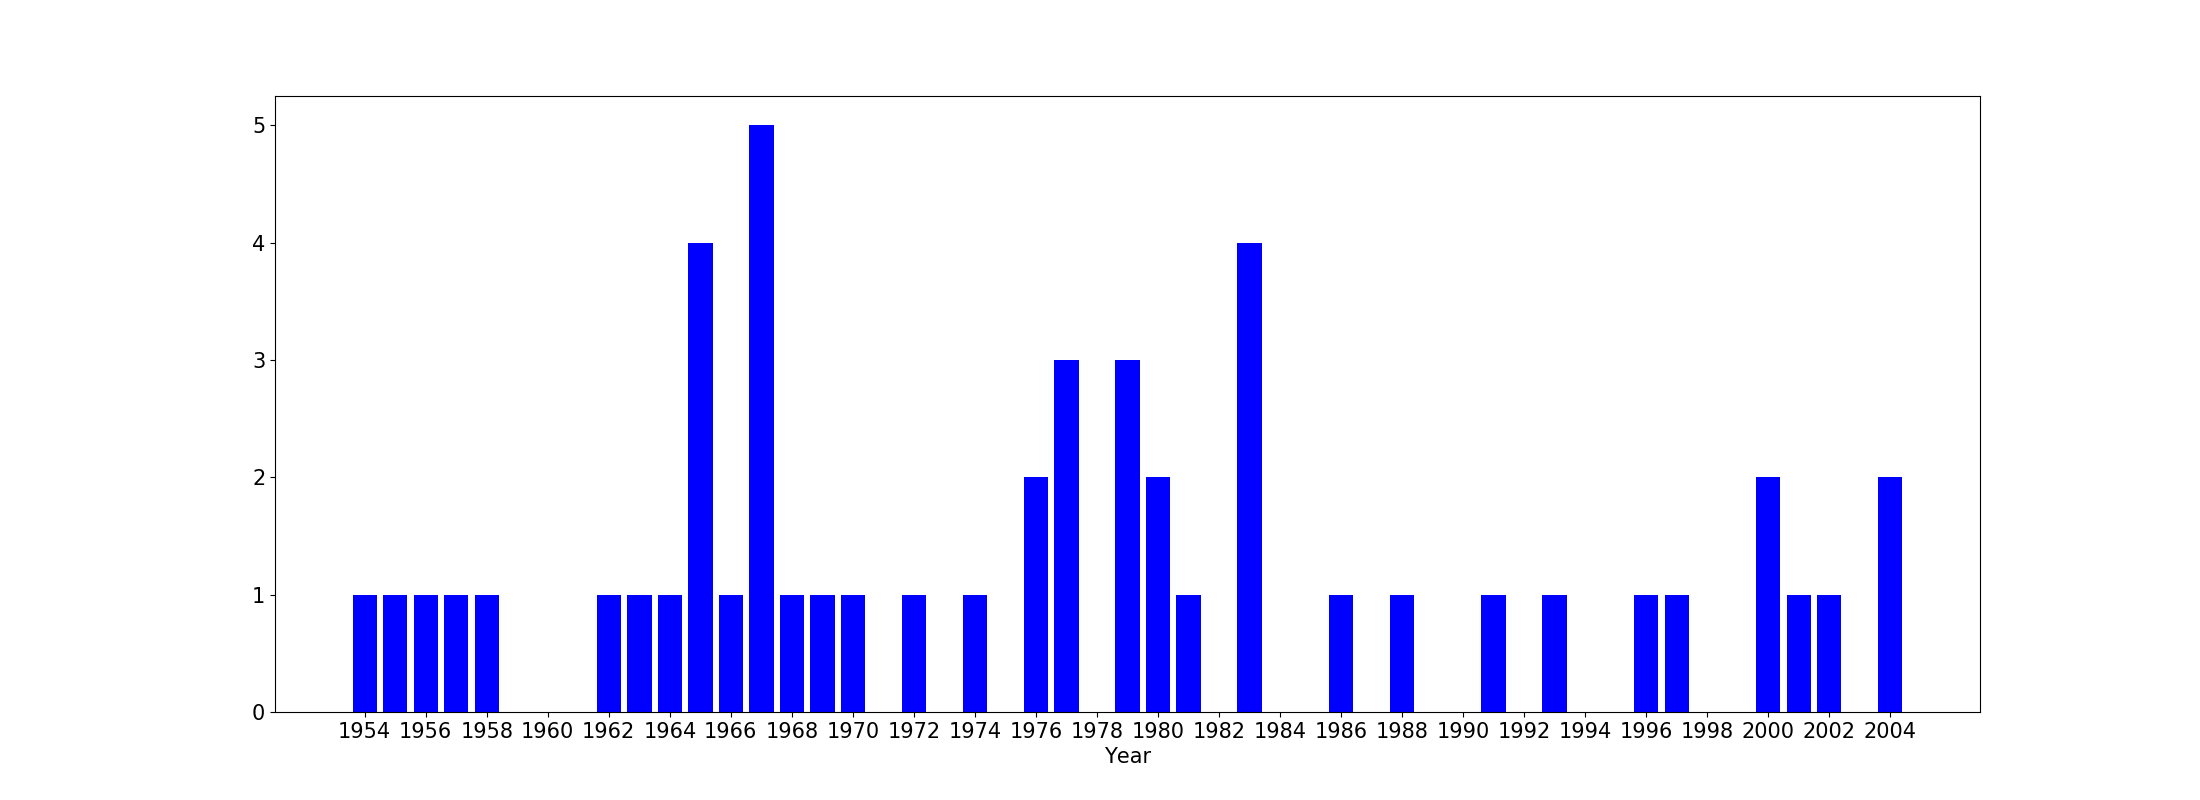
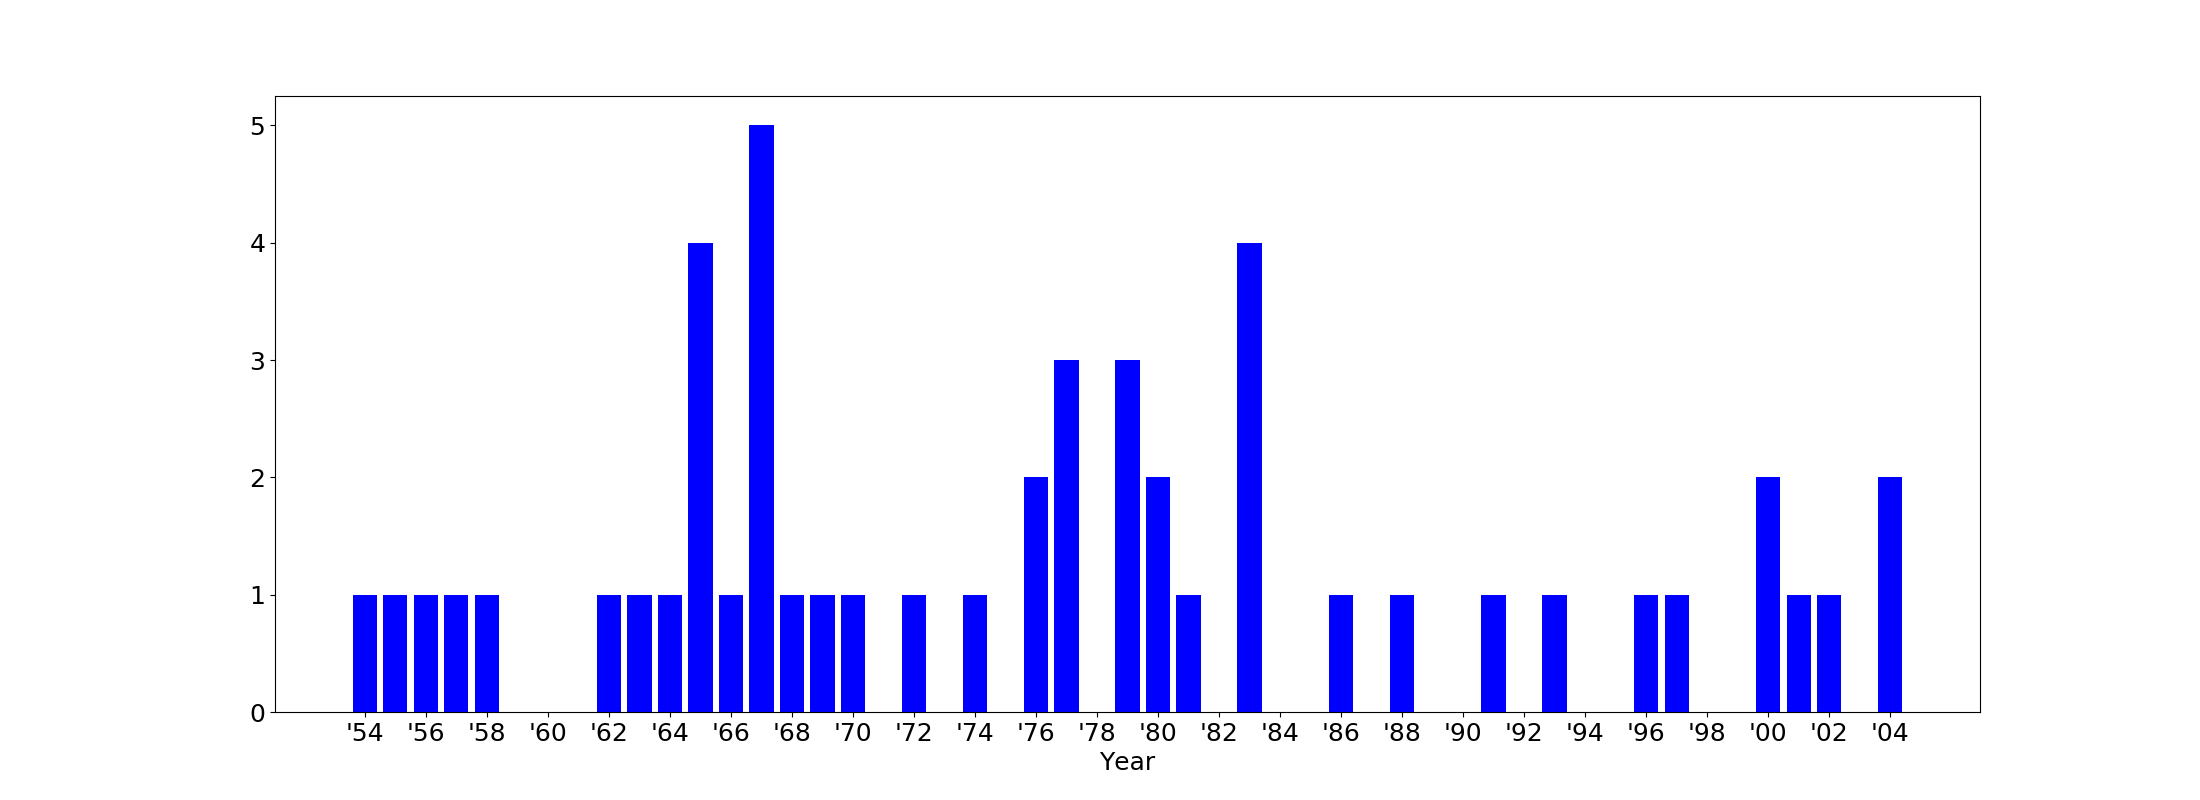
Hr before plots

Changed region(s): [[0.1545, 0.9062, 0.8655, 0.9688]]

diff --git a/index.html b/index.html
@@ -425,16 +425,16 @@ or as a part of an album. Image shows the cover of the single or the label if no
 
 <tr><td><b>Producer&ensp;</b></td><td><b>Eva Jantschitsch</b></td></tr>
 <tr><td><b>Length&ensp;</b></td><td><b>4:12</b></td></tr>
-<tr><td><b>Label&ensp;</b></td><td><b>Mosz</b></td></tr></table></div><h2><a href="#origin" name="origin">#</a>Origins</h2>
-<img src="data/img/origin.png" alt="Origins" width="920"/>
-<h2><a href="#years" name="years">#</a>Release Dates — Year</h2>
-<img src="data/img/years.png" alt="Release Dates — Year" width="920"/>
-<h2><a href="#months" name="months">#</a>Release Dates — Month</h2>
-<img src="data/img/months.png" alt="Release Dates — Month" width="920"/>
-<h2><a href="#key" name="key">#</a>Keys</h2>
-<img src="data/img/key.png" alt="Keys" width="920"/>
-<h2><a href="#bpm" name="bpm">#</a>Tempos</h2>
-<img src="data/img/bpm.png" alt="Tempos" width="920"/>
+<tr><td><b>Label&ensp;</b></td><td><b>Mosz</b></td></tr></table></div><br><br><br><br><hr><h2><a href="#origin" name="origin">#</a>Origin</h2>
+<img src="data/img/origin.png" alt="Origin" width="920"/>
+<h2><a href="#years" name="years">#</a>Release Date — Year</h2>
+<img src="data/img/years.png" alt="Release Date — Year" width="920"/>
+<h2><a href="#months" name="months">#</a>Release Date — Month</h2>
+<img src="data/img/months.png" alt="Release Date — Month" width="920"/>
+<h2><a href="#key" name="key">#</a>Key</h2>
+<img src="data/img/key.png" alt="Key" width="920"/>
+<h2><a href="#bpm" name="bpm">#</a>Tempo</h2>
+<img src="data/img/bpm.png" alt="Tempo" width="920"/>
 
 
 <footer>

diff --git a/data/plot.py b/data/plot.py
@@ -44,7 +44,8 @@ def main():
     list_of_songs = get_file_contents("../list_of_songs")
     list_of_songs = get_list_of_songs(list_of_songs)
     songs = {k: v for k, v in songs.items() if k in list_of_songs} 
-    generate_plot(songs, 'released', get_year, 'years', ticks_filter=every_even)
+    generate_plot(songs, 'released', get_year, 'years', get_year_xlabel, 
+        ticks_filter=every_even, font_size_in=18)
     generate_plot(songs, 'released', get_month, 'months')
     generate_plot(songs, 'length', get_minutes, 'minutes')
     generate_plot(songs, 'bpm', get_bpm, 'bpm', get_bpm_xlabel, font_size_in=14)
@@ -68,6 +69,10 @@ def generate_plot(songs, key, parser, xlabel, label_parser=None,
                                  label_parser=label_parser,
                                  font_size_in=font_size_in)
 
+
+def get_year_xlabel(value):
+    value = str(value)[-2:]
+    return f"'{value}"
 
 def get_bpm(value):
     bpm = int(value)
@@ -152,9 +157,6 @@ def generate_release_dates_chart(listOfYears, filename=None, ticks_filter=None,
         label_parser=None, font_size_in=None):
     font_size = 22
     width = 22
-    if filename == 'years':
-        font_size = 15
-        width = 22
     if font_size_in:
         font_size = font_size_in
     set_plt_size(plt, width=width, height=8, font_size=font_size)
@@ -169,7 +171,6 @@ def generate_release_dates_chart(listOfYears, filename=None, ticks_filter=None,
         x_ticks = ticks_filter(x_ticks)
     
     if filename == 'months':
-        # plt.set_xticklabels(calendar.month_abbr, rotation='vertical', fontsize=18)
         plt.xticks(x_ticks, calendar.month_abbr)
     elif label_parser:
         plt.xticks(x_ticks, [label_parser(a) for a in x_ticks])
@@ -229,11 +230,9 @@ def get_origin_dict(songs):
         decades = out.get(origin, [0]*5)
         decades[decade] += 1
         out[origin] = decades
-        # out[origin] = out.get(origin, [0]*5)[decade] + 1
         a_sum[decade] += 1
     
     for origin in out:
-        # for decade in out[origin]:
         for i in range(len(out[origin])):
             out[origin][i] /= a_sum[i]
 

diff --git a/parse.py b/parse.py
@@ -79,20 +79,14 @@ def sort_by_date(listOfAlbums, albumData):
 def generate_files(albumData, listOfAlbums):
     table_html, table_md = generate_list(listOfAlbums, albumData)
     if ADD_PLOTS:
-        names = [('Origins', 'origin'), 
-                 ('Release Dates — Year', 'years'),
-                 ('Release Dates — Month', 'months'),
-                 ('Keys', 'key'),
-                 ('Tempos', 'bpm')]
+        names = [('Origin', 'origin'), 
+                 ('Release Date — Year', 'years'),
+                 ('Release Date — Month', 'months'),
+                 ('Key', 'key'),
+                 ('Tempo', 'bpm')]
         plots_html, plots_md = get_plots(names)
-        table_html += plots_html
+        table_html += f'<br><br><br><br><hr>{plots_html}'
         table_md += plots_md
-        # origins_html, origins_md = get_plot('Origins', 'origin')
-        # years_html, years_md = get_plot('Release Dates', 'years')
-        # months_html, months_md = get_plot('Release Months', 'months')
-        # minutes_html, minutes_md = get_plot('Track Lengths', 'minutes')
-        # table_html += origins_html + years_html + months_html + minutes_html
-        # table_md += origins_md + years_md + months_md + minutes_md
     no_albums = len(listOfAlbums)
     title = f"{no_albums} Greatest Songs From '54 to '04"
     template = ''.join(get_file_contents(TEMPLATE))

diff --git a/README.md b/README.md
@@ -462,18 +462,18 @@ or as a part of an album. Image shows the cover of the single or the label if no
 <br>  
 <br>  
 
-Origins
+Origin
 ------
-![Origins](data/img/origin.png)
-Release Dates — Year
+![Origin](data/img/origin.png)
+Release Date — Year
 ------
-![Release Dates — Year](data/img/years.png)
-Release Dates — Month
+![Release Date — Year](data/img/years.png)
+Release Date — Month
 ------
-![Release Dates — Month](data/img/months.png)
-Keys
+![Release Date — Month](data/img/months.png)
+Key
 ------
-![Keys](data/img/key.png)
-Tempos
+![Key](data/img/key.png)
+Tempo
 ------
-![Tempos](data/img/bpm.png)
+![Tempo](data/img/bpm.png)
